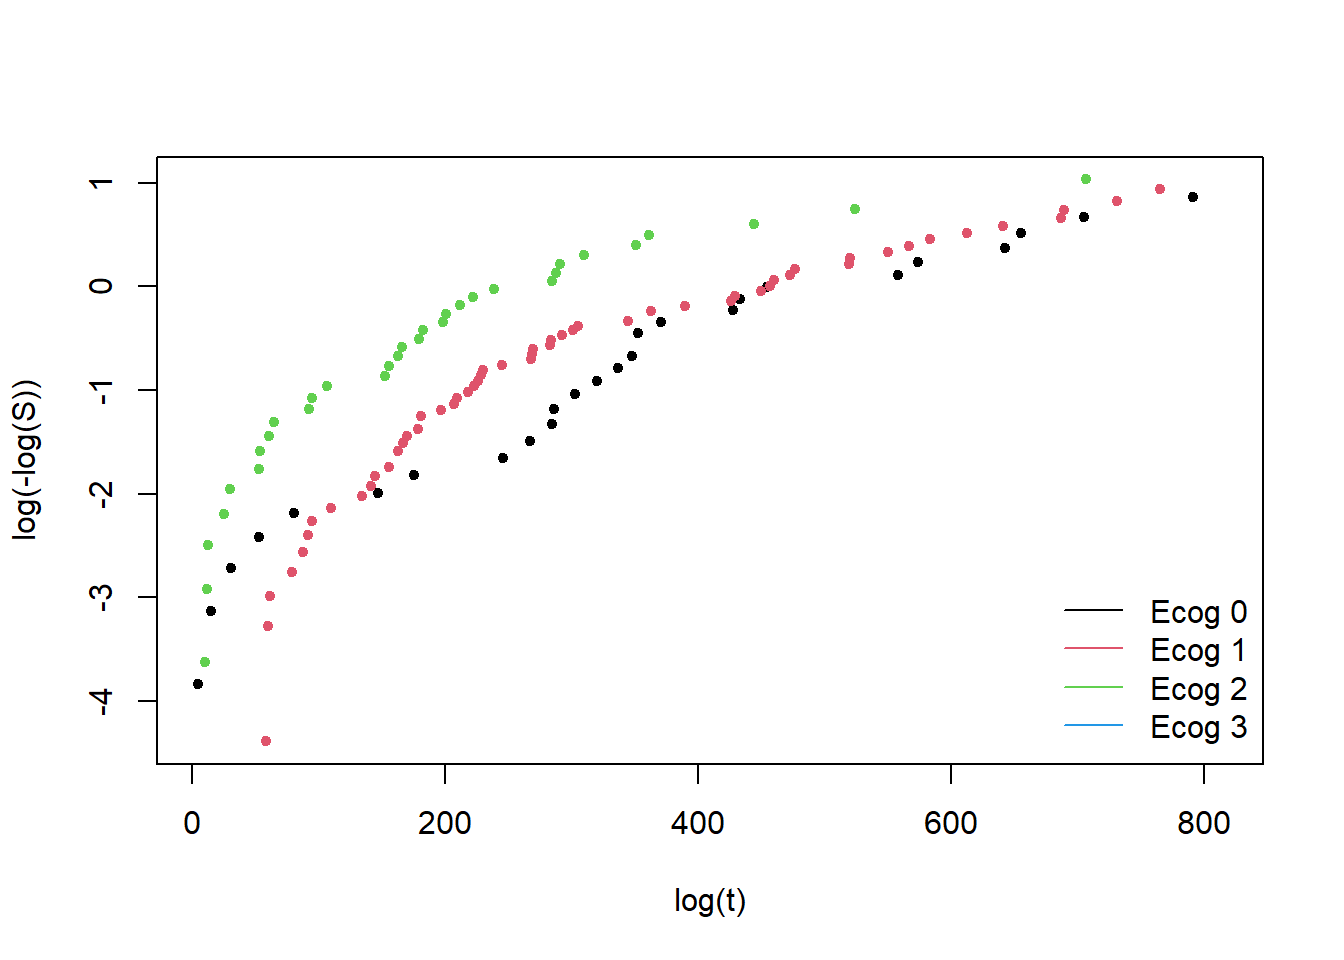
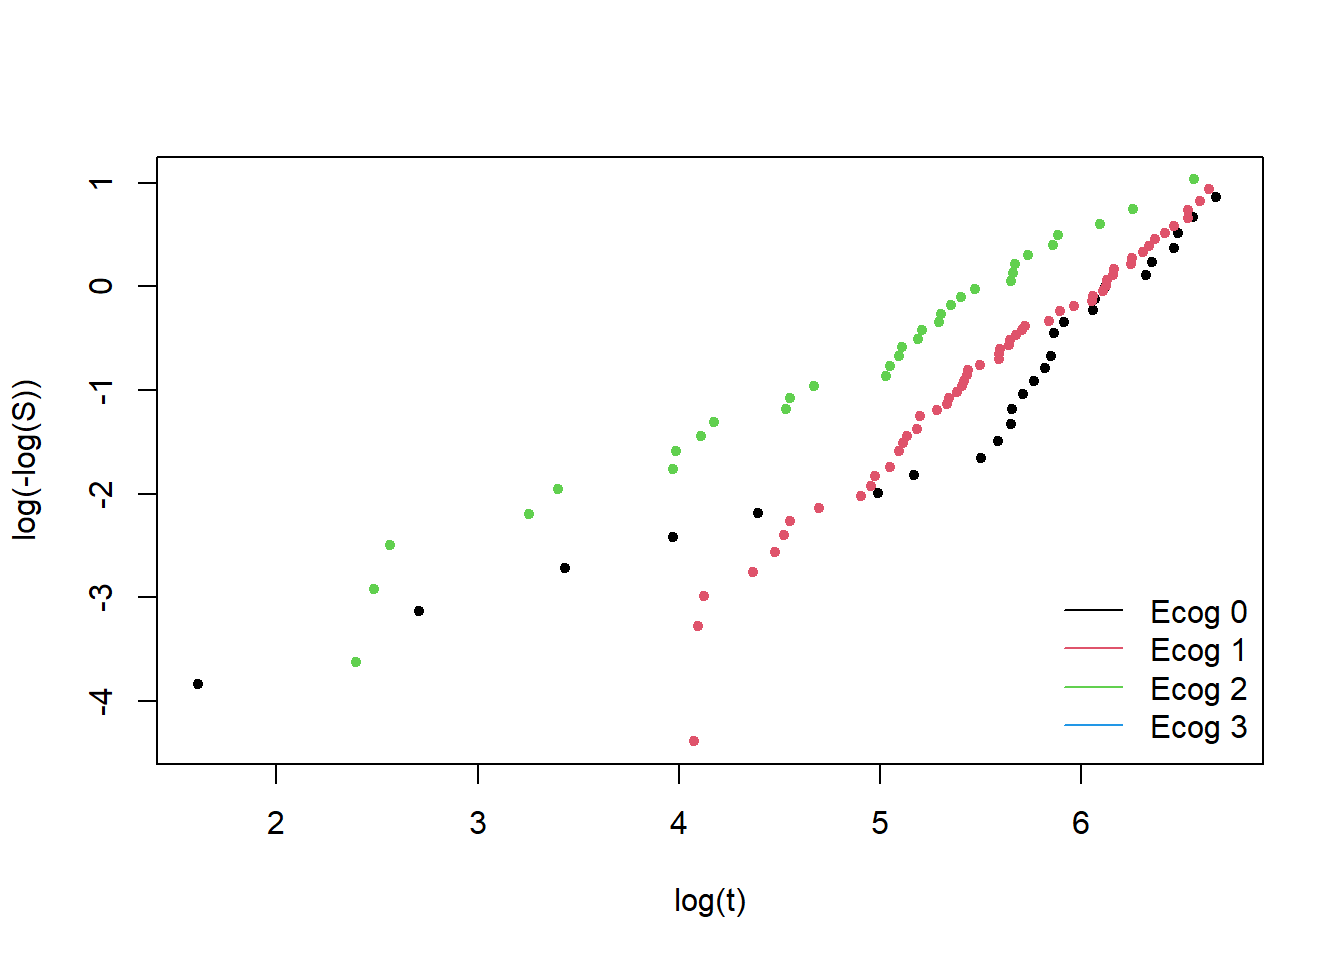
atfim

diff --git a/_site/semanas/Aula08.html b/_site/semanas/Aula08.html
@@ -588,7 +588,7 @@ Score (logrank) test = 19.62  on 2 df,   p=5e-05</code></pre>
 <div class="cell">
 <div class="sourceCode cell-code" id="cb33"><pre class="sourceCode r code-with-copy"><code class="sourceCode r"><span id="cb33-1"><a href="#cb33-1" aria-hidden="true" tabindex="-1"></a>av1 <span class="ot">&lt;-</span> <span class="fu">survfit</span>(<span class="fu">Surv</span>(time, status) <span class="sc">~</span> sex, <span class="at">data =</span> dados)</span>
 <span id="cb33-2"><a href="#cb33-2" aria-hidden="true" tabindex="-1"></a>av1.tab <span class="ot">&lt;-</span> <span class="fu">summary</span>(av1)</span>
-<span id="cb33-3"><a href="#cb33-3" aria-hidden="true" tabindex="-1"></a><span class="fu">plot</span>(av1.tab<span class="sc">$</span>time,<span class="fu">log</span>(<span class="sc">-</span><span class="fu">log</span>(av1.tab<span class="sc">$</span>surv)),</span>
+<span id="cb33-3"><a href="#cb33-3" aria-hidden="true" tabindex="-1"></a><span class="fu">plot</span>(<span class="fu">log</span>(av1.tab<span class="sc">$</span>time),<span class="fu">log</span>(<span class="sc">-</span><span class="fu">log</span>(av1.tab<span class="sc">$</span>surv)),</span>
 <span id="cb33-4"><a href="#cb33-4" aria-hidden="true" tabindex="-1"></a><span class="at">col =</span> av1.tab<span class="sc">$</span>strata, <span class="at">xlab =</span> <span class="st">"log(t)"</span>, <span class="at">ylab =</span> <span class="st">"log(-log(S))"</span>,</span>
 <span id="cb33-5"><a href="#cb33-5" aria-hidden="true" tabindex="-1"></a><span class="at">pch =</span> <span class="dv">20</span>)</span>
 <span id="cb33-6"><a href="#cb33-6" aria-hidden="true" tabindex="-1"></a><span class="fu">legend</span>(<span class="st">"bottomright"</span>, <span class="at">bty =</span> <span class="st">"n"</span>, <span class="at">lty =</span> <span class="dv">1</span>, <span class="at">col =</span> <span class="fu">c</span>(<span class="dv">1</span><span class="sc">:</span><span class="dv">2</span>),</span>
@@ -598,7 +598,7 @@ Score (logrank) test = 19.62  on 2 df,   p=5e-05</code></pre>
 </div>
 <div class="sourceCode cell-code" id="cb34"><pre class="sourceCode r code-with-copy"><code class="sourceCode r"><span id="cb34-1"><a href="#cb34-1" aria-hidden="true" tabindex="-1"></a>av2 <span class="ot">&lt;-</span> <span class="fu">survfit</span>(<span class="fu">Surv</span>(time, status) <span class="sc">~</span> ph.ecog, <span class="at">data =</span> dados)</span>
 <span id="cb34-2"><a href="#cb34-2" aria-hidden="true" tabindex="-1"></a>av2.tab <span class="ot">&lt;-</span> <span class="fu">summary</span>(av2)</span>
-<span id="cb34-3"><a href="#cb34-3" aria-hidden="true" tabindex="-1"></a><span class="fu">plot</span>(av2.tab<span class="sc">$</span>time,<span class="fu">log</span>(<span class="sc">-</span><span class="fu">log</span>(av2.tab<span class="sc">$</span>surv)),</span>
+<span id="cb34-3"><a href="#cb34-3" aria-hidden="true" tabindex="-1"></a><span class="fu">plot</span>(<span class="fu">log</span>(av2.tab<span class="sc">$</span>time),<span class="fu">log</span>(<span class="sc">-</span><span class="fu">log</span>(av2.tab<span class="sc">$</span>surv)),</span>
 <span id="cb34-4"><a href="#cb34-4" aria-hidden="true" tabindex="-1"></a><span class="at">col =</span> av2.tab<span class="sc">$</span>strata, <span class="at">xlab =</span> <span class="st">"log(t)"</span>, <span class="at">ylab =</span> <span class="st">"log(-log(S))"</span>,</span>
 <span id="cb34-5"><a href="#cb34-5" aria-hidden="true" tabindex="-1"></a><span class="at">pch =</span> <span class="dv">20</span>)</span>
 <span id="cb34-6"><a href="#cb34-6" aria-hidden="true" tabindex="-1"></a><span class="fu">legend</span>(<span class="st">"bottomright"</span>, <span class="at">bty =</span> <span class="st">"n"</span>, <span class="at">lty =</span> <span class="dv">1</span>, <span class="at">col =</span> <span class="fu">c</span>(<span class="dv">1</span>,<span class="dv">2</span>,<span class="dv">3</span>,<span class="dv">4</span>),</span>
